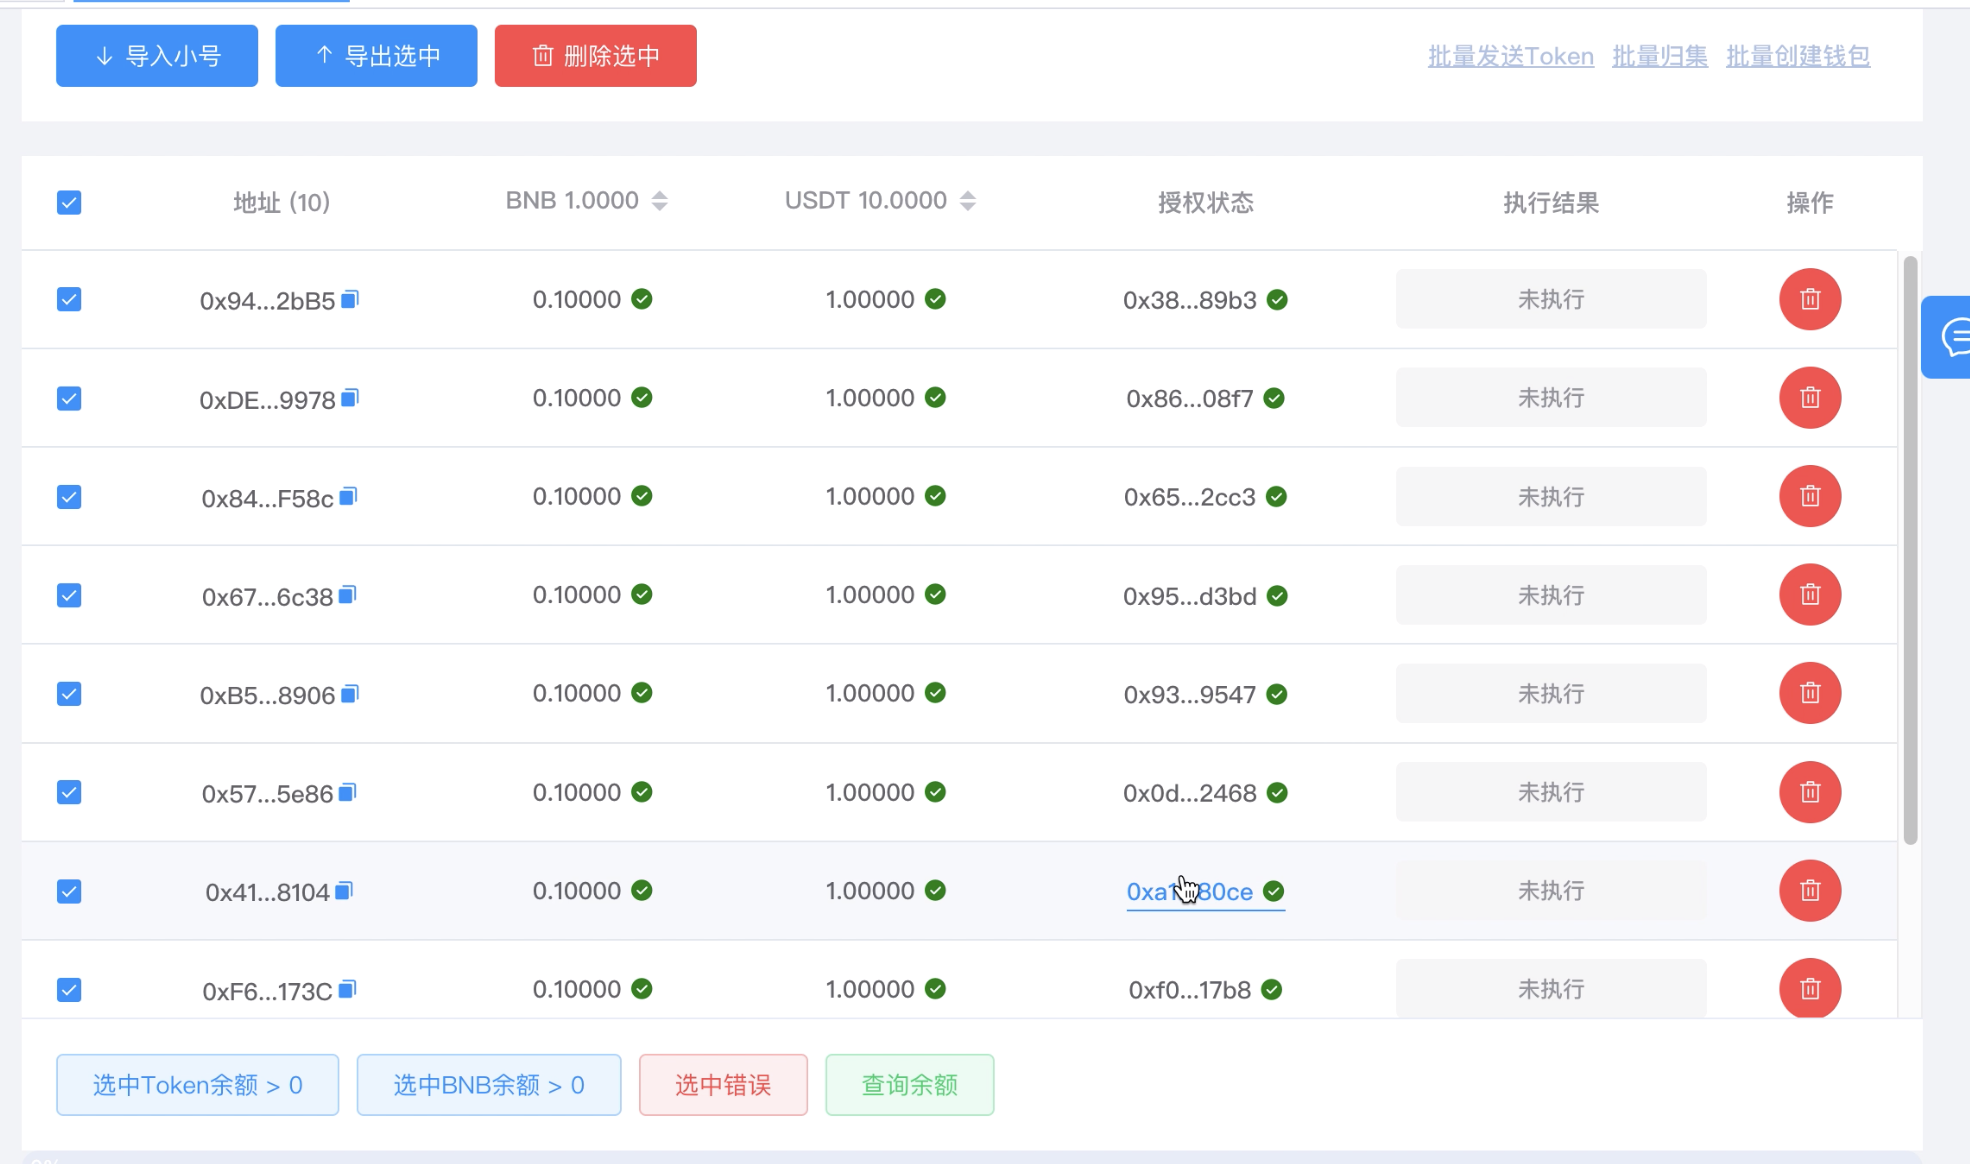
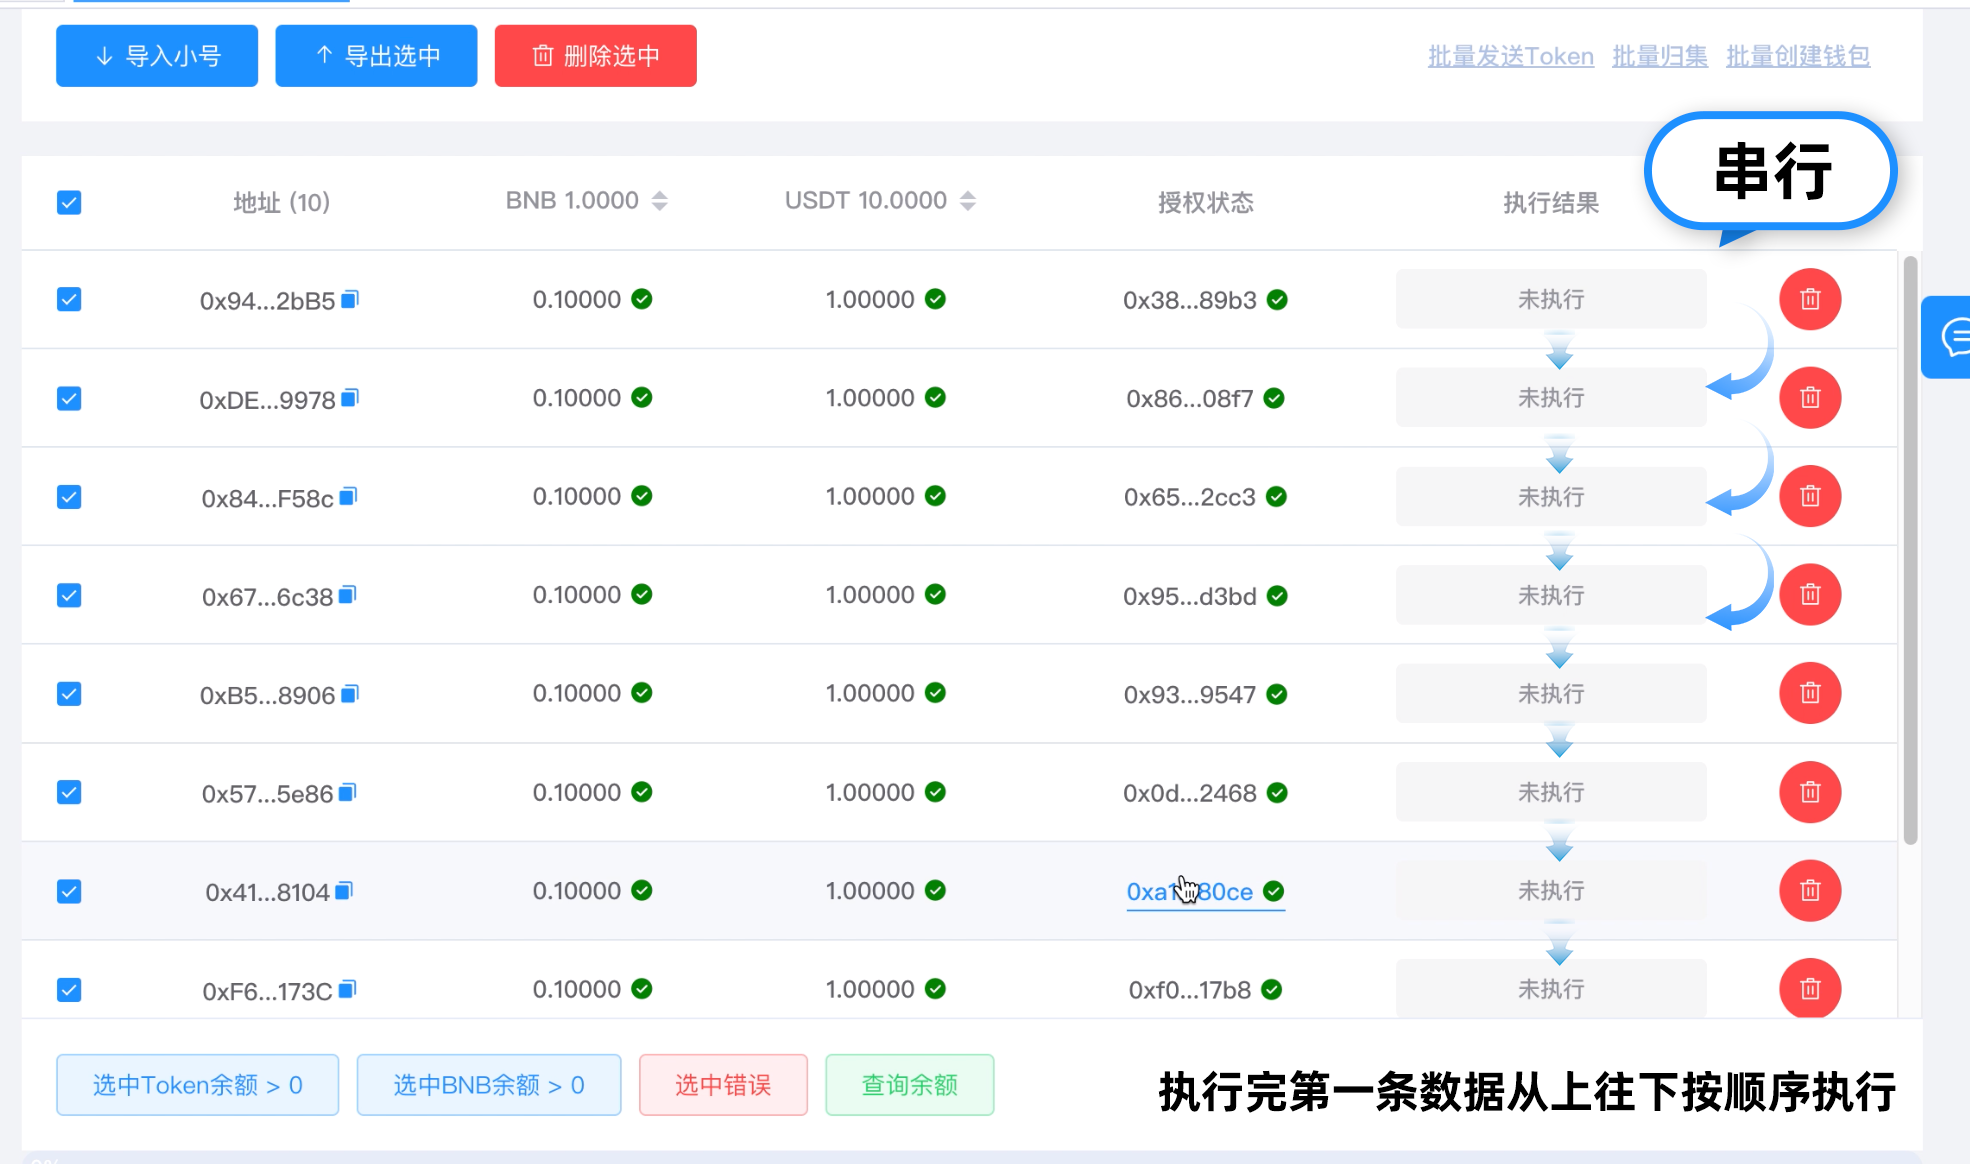
update docs

diff --git a/multi/batchSwap.md b/multi/batchSwap.md
@@ -51,8 +51,20 @@
 
 ##### 运行类型（模式）
 
-![batch-swap](../.gitbook/assets/batchSwap/Snipaste_2022-12-20_20-41-14.png)
+![batch-swap](../.gitbook/assets/batchSwap/Snipaste_2022-12-20_20-41-15.png)
 
 **并行执行：** 所有选中的地址将会在同一时间发起兑换交易，这样往往会出现所有的交易都在一个区块同时完成
 
+![batch-swap](../.gitbook/assets/batchSwap/Snipaste_2022-12-20_20-41-14.png)
+
 **串行执行：**所有选中的地址会有序的进行交易，将按照从上往下的顺序一条条执行。
+
+
+
+> 引用地址：
+>
+> [https://tokentool.app/batchSwap/bsc](https://tokentool.app/batchSwap/bsc) 批量Swap兑换
+> [https://tokentool.app/oneToMore/bsc](https://tokentool.app/oneToMore/bsc) 批量发送代币
+> [https://tokentool.app/batchCollection/bsc](https://tokentool.app/batchCollection/bsc) 批量归集代币
+> [https://tokentool.app/createWallet/bsc](https://tokentool.app/createWallet/bsc) 批量创建钱包
+> [https://youtu.be/QfqfRCVvPc8](https://youtu.be/QfqfRCVvPc8) 视频教程
